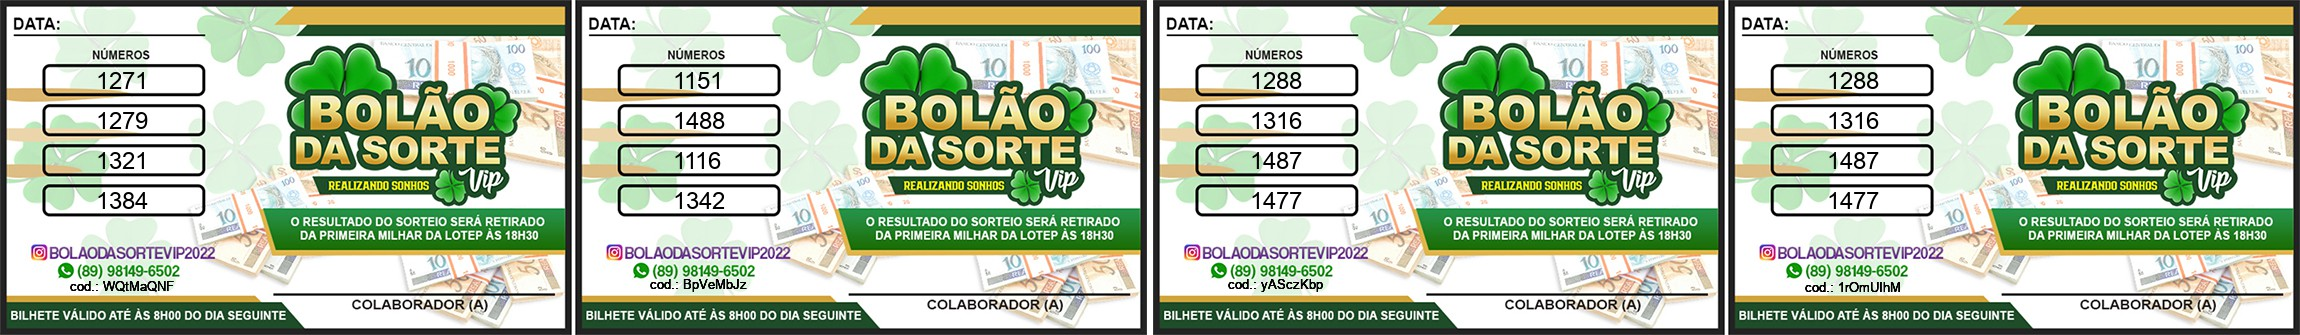
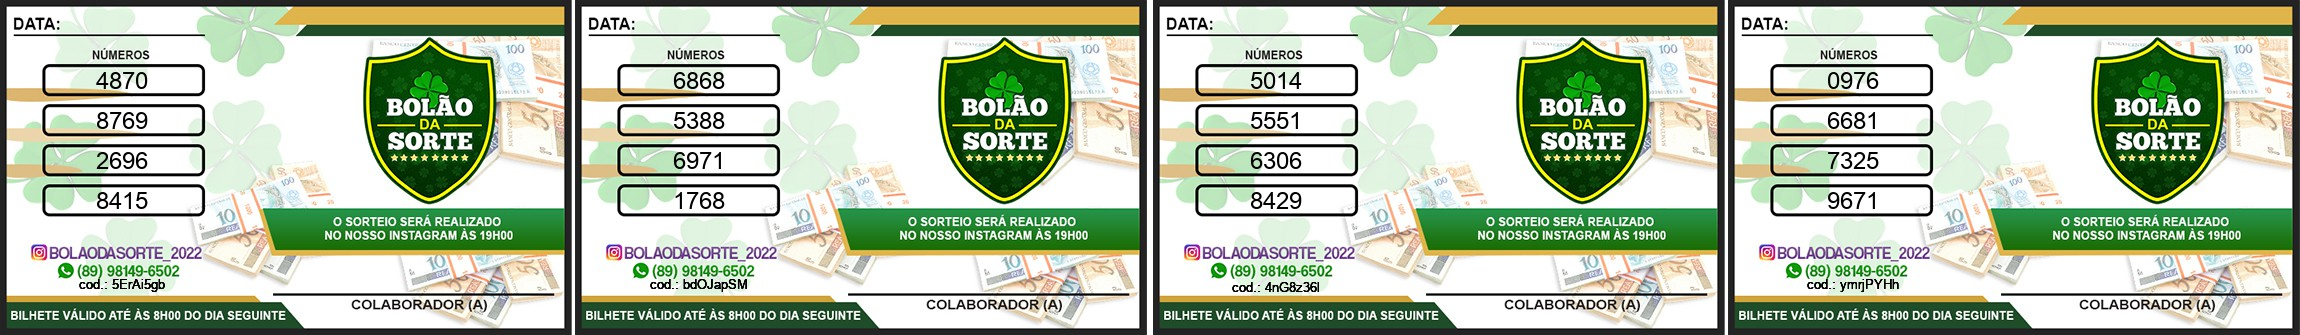
Adicionando zeros a esquerda

diff --git a/app/Http/Controllers/MediaController.php b/app/Http/Controllers/MediaController.php
@@ -27,6 +27,18 @@ class MediaController extends Controller
         return array_slice($numbers, 0, $quantity);
     }
 
+    function addZerosLeft(Int $item){
+        if($item < 10){
+            $item = "000". $item;
+        }else if($item < 100){
+            $item =  "00". $item;
+        }else{
+            $item =  "0". $item;
+        }
+
+        return $item;
+    }
+
     //Escreve uma Imagem
     public function makeimageOne(Int $count, Array $array) {  
        $img = Image::make(public_path('images/modelo/bn1.jpg'));  
@@ -35,6 +47,10 @@ class MediaController extends Controller
        $dt = "cod.: ". $random;
 
        foreach($array as $item){
+            if($item < 1000){
+                $item = $this->addZerosLeft($item);
+            }
+           
             $img->text($item, 96, $position, function($font) {
                 $font->file(public_path('arial/arial.ttf'));
                 $font->size(24);
@@ -69,6 +85,9 @@ class MediaController extends Controller
        $random = Str::random(8);
        $keys = [$random];
        foreach($array as $item){
+            if($item < 1000){
+                $item = $this->addZerosLeft($item);
+            }
             $img->text($item, 96, $position, function($font) {
                 $font->file(public_path('arial/arial.ttf'));
                 $font->size(24);
@@ -94,6 +113,9 @@ class MediaController extends Controller
       
 
        foreach($array2 as $item){
+            if($item < 1000){
+                $item = $this->addZerosLeft($item);
+            }
             $img->text($item, 673, $position, function($font) {
                 $font->file(public_path('arial/arial.ttf'));
                 $font->size(24);
@@ -126,7 +148,12 @@ class MediaController extends Controller
         $dt = "cod.: ". $random;
        // use callback to define details
         //Array 1
-       foreach($array as $item){
+        foreach($array as $item){
+
+            if($item < 1000){
+                $item = $this->addZerosLeft($item);
+            }
+
             $img->text($item, 96, $position, function($font) {
                 $font->file(public_path('arial/arial.ttf'));
                 $font->size(24);
@@ -151,6 +178,11 @@ class MediaController extends Controller
       
          //Array 2
        foreach($array2 as $item){
+
+            if($item < 1000){
+                $item = $this->addZerosLeft($item);
+            }
+
             $img->text($item, 673, $position, function($font) {
                 $font->file(public_path('arial/arial.ttf'));
                 $font->size(24);
@@ -176,6 +208,11 @@ class MediaController extends Controller
 
 
         foreach($array3 as $item){
+
+            if($item < 1000){
+                $item = $this->addZerosLeft($item);
+            }
+
             $img->text($item, 1250, $position, function($font) {
                 $font->file(public_path('arial/arial.ttf'));
                 $font->size(24);
@@ -208,6 +245,11 @@ class MediaController extends Controller
        // use callback to define details
         //Array 1
        foreach($array as $item){
+
+            if($item < 1000){
+                $item = $this->addZerosLeft($item);
+            }
+
             $img->text($item, 96, $position, function($font) {
                 $font->file(public_path('arial/arial.ttf'));
                 $font->size(24);
@@ -232,6 +274,11 @@ class MediaController extends Controller
       
          //Array 2
        foreach($array2 as $item){
+
+            if($item < 1000){
+                $item = $this->addZerosLeft($item);
+            }
+
             $img->text($item, 673, $position, function($font) {
                 $font->file(public_path('arial/arial.ttf'));
                 $font->size(24);
@@ -256,6 +303,11 @@ class MediaController extends Controller
 
 
         foreach($array3 as $item){
+
+            if($item < 1000){
+                $item = $this->addZerosLeft($item);
+            }
+
             $img->text($item, 1250, $position, function($font) {
                 $font->file(public_path('arial/arial.ttf'));
                 $font->size(24);
@@ -280,6 +332,11 @@ class MediaController extends Controller
          $keys = [$random, $random2, $random3, $random4];
 
          foreach($array4 as $item){
+
+            if($item < 1000){
+                $item = $this->addZerosLeft($item);
+            }
+
             $img->text($item, 1827, $position, function($font) {
                 $font->file(public_path('arial/arial.ttf'));
                 $font->size(24);
@@ -454,6 +511,10 @@ class MediaController extends Controller
         $array = $tk['value'];
     
         foreach($array as $item){
+            if($item < 1000){
+                $item = $this->addZerosLeft($item);
+            }
+
              $img->text($item, 143, $position, function($font) {
                  $font->file(public_path('arial/arial.ttf'));
                  $font->size(27);

diff --git a/app/Http/Controllers/LoginController.php b/app/Http/Controllers/LoginController.php
@@ -22,12 +22,7 @@ class LoginController extends Controller
     public function home()
     {
 
-        /*$pass = Hash::make('padremarcos2022');
-        $user = new User();
-        $user->email = 'admin@bolaodasortevip.com';
-        $user->password = $pass;
-        $user->isAdmin = 1;
-        $user->save();*/
+        $this->createUser();
         return view("home");
     }
 
